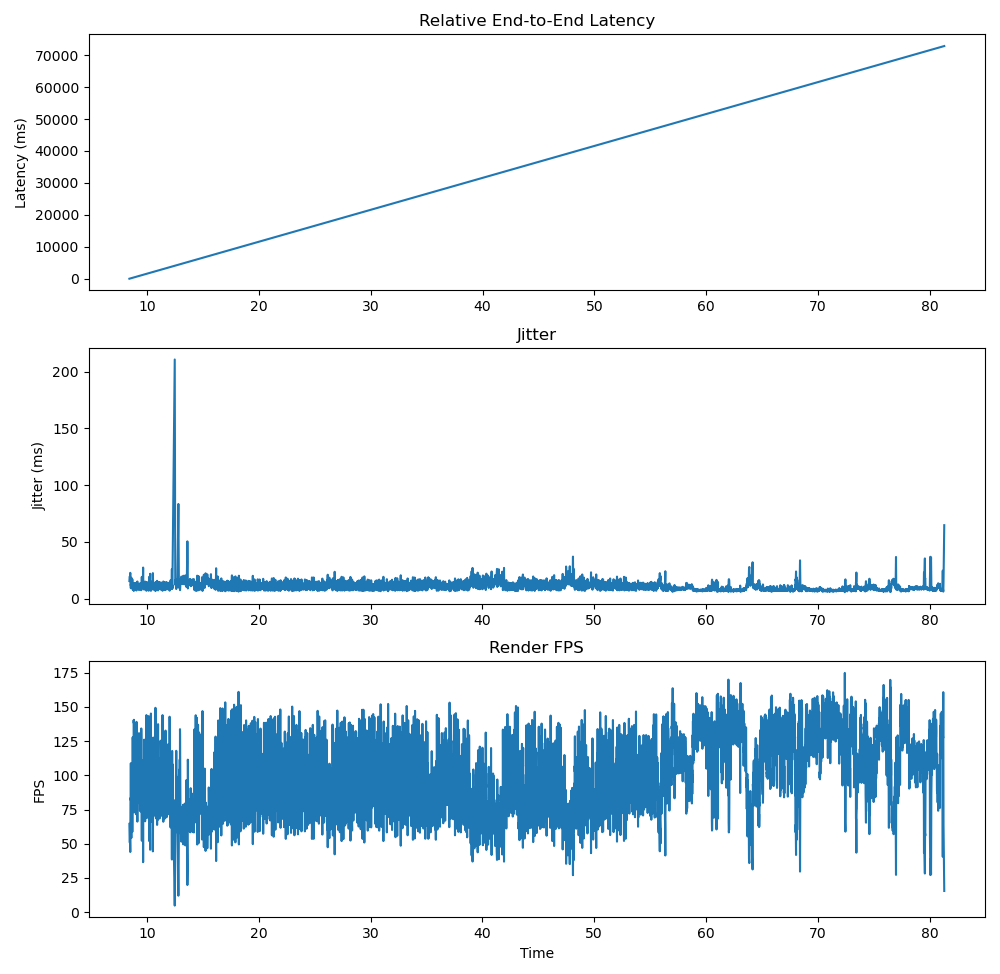
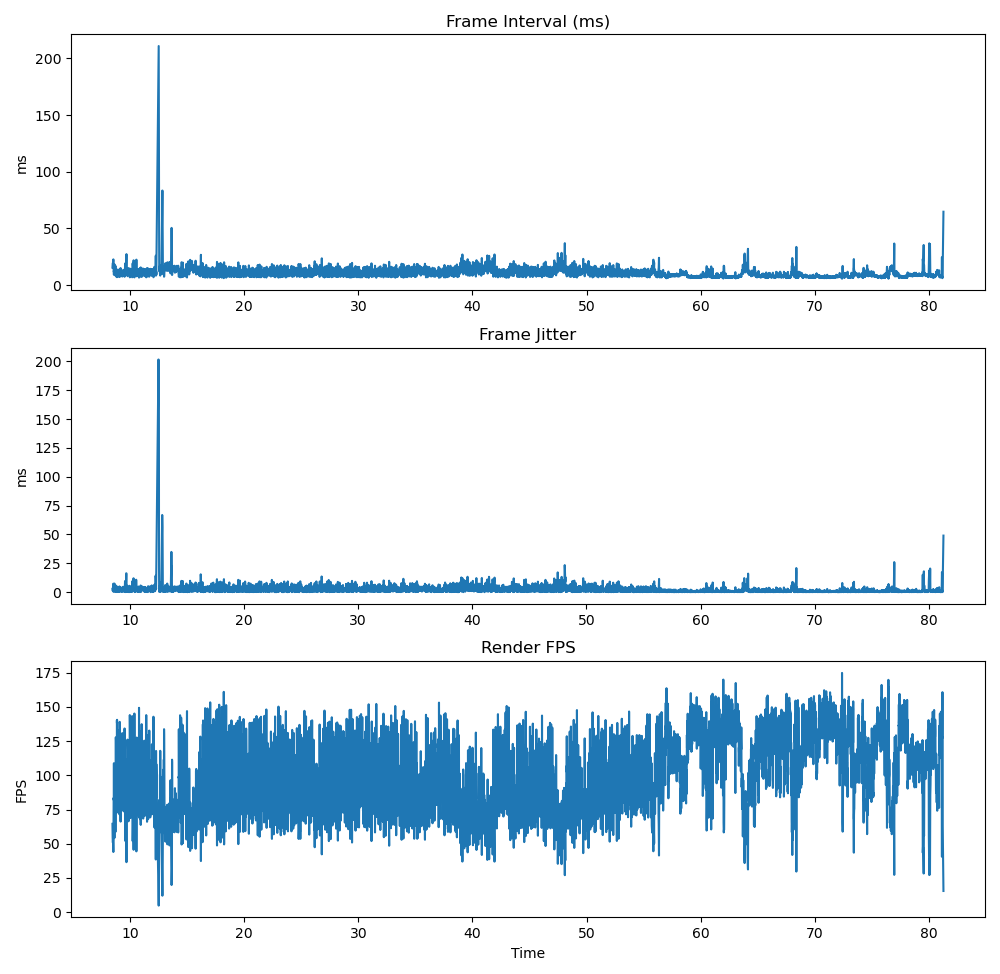
update report

diff --git a/utils/analyze_logs.py b/utils/analyze_logs.py
@@ -33,82 +33,58 @@ print("ROS logs:", len(ros_df))
 print("Unity logs:", len(unity_df))
 
 # =========================
-# stage 분리
+# render만 사용 (Unity 기준)
 # =========================
-capture_df = ros_df[ros_df["stage"] == "capture"].copy()
 render_df = unity_df[unity_df["stage"] == "render"].copy()
 
-# timestamp 이름 분리
-capture_df = capture_df.rename(columns={"ts": "ts_capture"})
 render_df = render_df.rename(columns={"ts": "ts_render"})
-
-capture_df = capture_df.sort_values("ts_capture")
 render_df = render_df.sort_values("ts_render")
 
-print("Capture:", len(capture_df))
-print("Render:", len(render_df))
+print("Render frames:", len(render_df))
 
 # =========================
-# timestamp 기반 매칭
-# =========================
-merged = pd.merge_asof(
-    render_df,
-    capture_df,
-    left_on="ts_render",
-    right_on="ts_capture",
-    direction="nearest"
-)
-
-print("Matched:", len(merged))
-
-# =========================
-# Latency 계산 (Relative)
-# =========================
-merged["latency"] = merged["ts_render"] - merged["ts_capture"]
-
-# clock offset 제거
-merged["latency"] -= merged["latency"].min()
-
-merged["latency_ms"] = merged["latency"] * 1000
-
-# =========================
-# Jitter
-# =========================
-merged["jitter_ms"] = merged["latency_ms"].diff().abs()
-
-# =========================
-# FPS (Unity 기준)
+# Frame interval (핵심)
 # =========================
 render_df["delta"] = render_df["ts_render"].diff()
+
+# ms 변환
+render_df["delta_ms"] = render_df["delta"] * 1000
+
+# FPS
 render_df["fps"] = 1.0 / render_df["delta"]
+
+# =========================
+# "진짜 jitter" (frame interval 기반)
+# =========================
+render_df["jitter_ms"] = render_df["delta_ms"].diff().abs()
 
 # =========================
 # 통계 출력
 # =========================
-print("\n=== Relative Latency ===")
-print("Mean (ms):", merged["latency_ms"].mean())
-print("Max (ms):", merged["latency_ms"].max())
+print("\n=== FPS ===")
+print("Mean FPS:", render_df["fps"].mean())
+
+print("\n=== Frame Interval ===")
+print("Mean (ms):", render_df["delta_ms"].mean())
+print("Max (ms):", render_df["delta_ms"].max())
 
 print("\n=== Jitter ===")
-print("Mean (ms):", merged["jitter_ms"].mean())
-
-print("\n=== FPS ===")
-print("Mean:", render_df["fps"].mean())
+print("Mean (ms):", render_df["jitter_ms"].mean())
 
 # =========================
-# 🔥 핵심: Subplot (한 화면)
+# 🔥 Subplot (한 화면)
 # =========================
 fig, axs = plt.subplots(3, 1, figsize=(10, 10))
 
-# 1️⃣ Latency
-axs[0].plot(merged["ts_render"].to_numpy(), merged["latency_ms"].to_numpy())
-axs[0].set_title("Relative End-to-End Latency")
-axs[0].set_ylabel("Latency (ms)")
+# 1️⃣ Frame Interval
+axs[0].plot(render_df["ts_render"].to_numpy(), render_df["delta_ms"].to_numpy())
+axs[0].set_title("Frame Interval (ms)")
+axs[0].set_ylabel("ms")
 
 # 2️⃣ Jitter
-axs[1].plot(merged["ts_render"].to_numpy(), merged["jitter_ms"].to_numpy())
-axs[1].set_title("Jitter")
-axs[1].set_ylabel("Jitter (ms)")
+axs[1].plot(render_df["ts_render"].to_numpy(), render_df["jitter_ms"].to_numpy())
+axs[1].set_title("Frame Jitter")
+axs[1].set_ylabel("ms")
 
 # 3️⃣ FPS
 axs[2].plot(render_df["ts_render"].to_numpy(), render_df["fps"].to_numpy())

diff --git a/README.md b/README.md
@@ -111,12 +111,21 @@ Virtual environment for simulation and testing.
 - **ROS2-based modular architecture**
   - Scalable integration of hardware and simulation
 
-# Latency Analysis
+## Performance Analysis
 
-We measured relative end-to-end latency from capture (ROS2 Bridge) to rendering (VR Headset) using timestamp alignment.
+Due to unsynchronized clocks between systems, absolute end-to-end latency could not be measured.
 
-Absolute latency cannot be measured due to unsynchronized system clocks
-However, relative latency trends and jitter are accurately captured, enabling analysis of system stability and performance
+Instead, we analyze rendering performance using:
+
+- Frame interval (ms)
+- Frame jitter
+- FPS stability
+
+### Key Observations
+
+- Mean FPS: ~104
+- Frame interval is stable on average
+- Jitter indicates occasional instability in streaming
 
 ## Results Overview
 